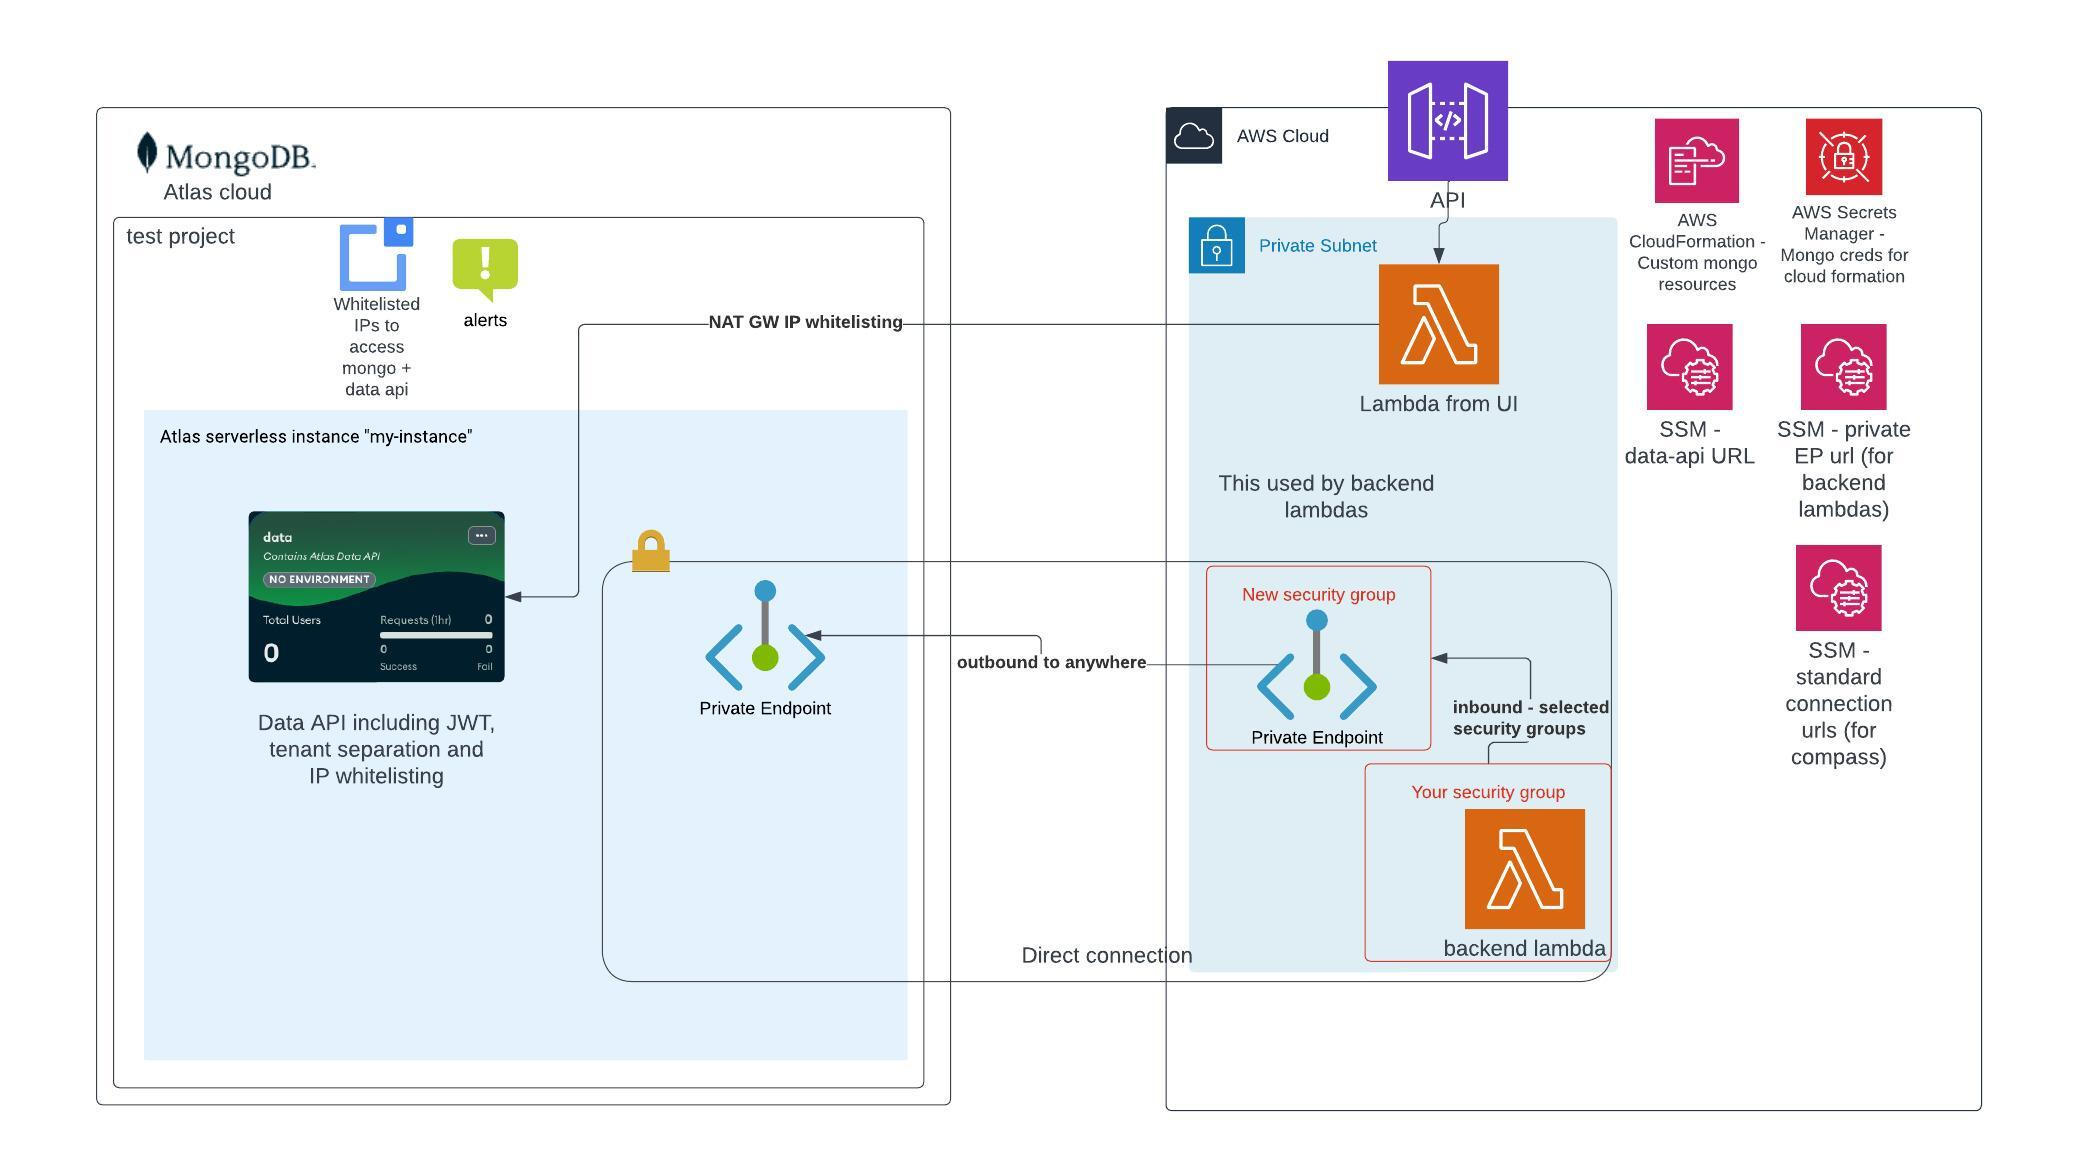
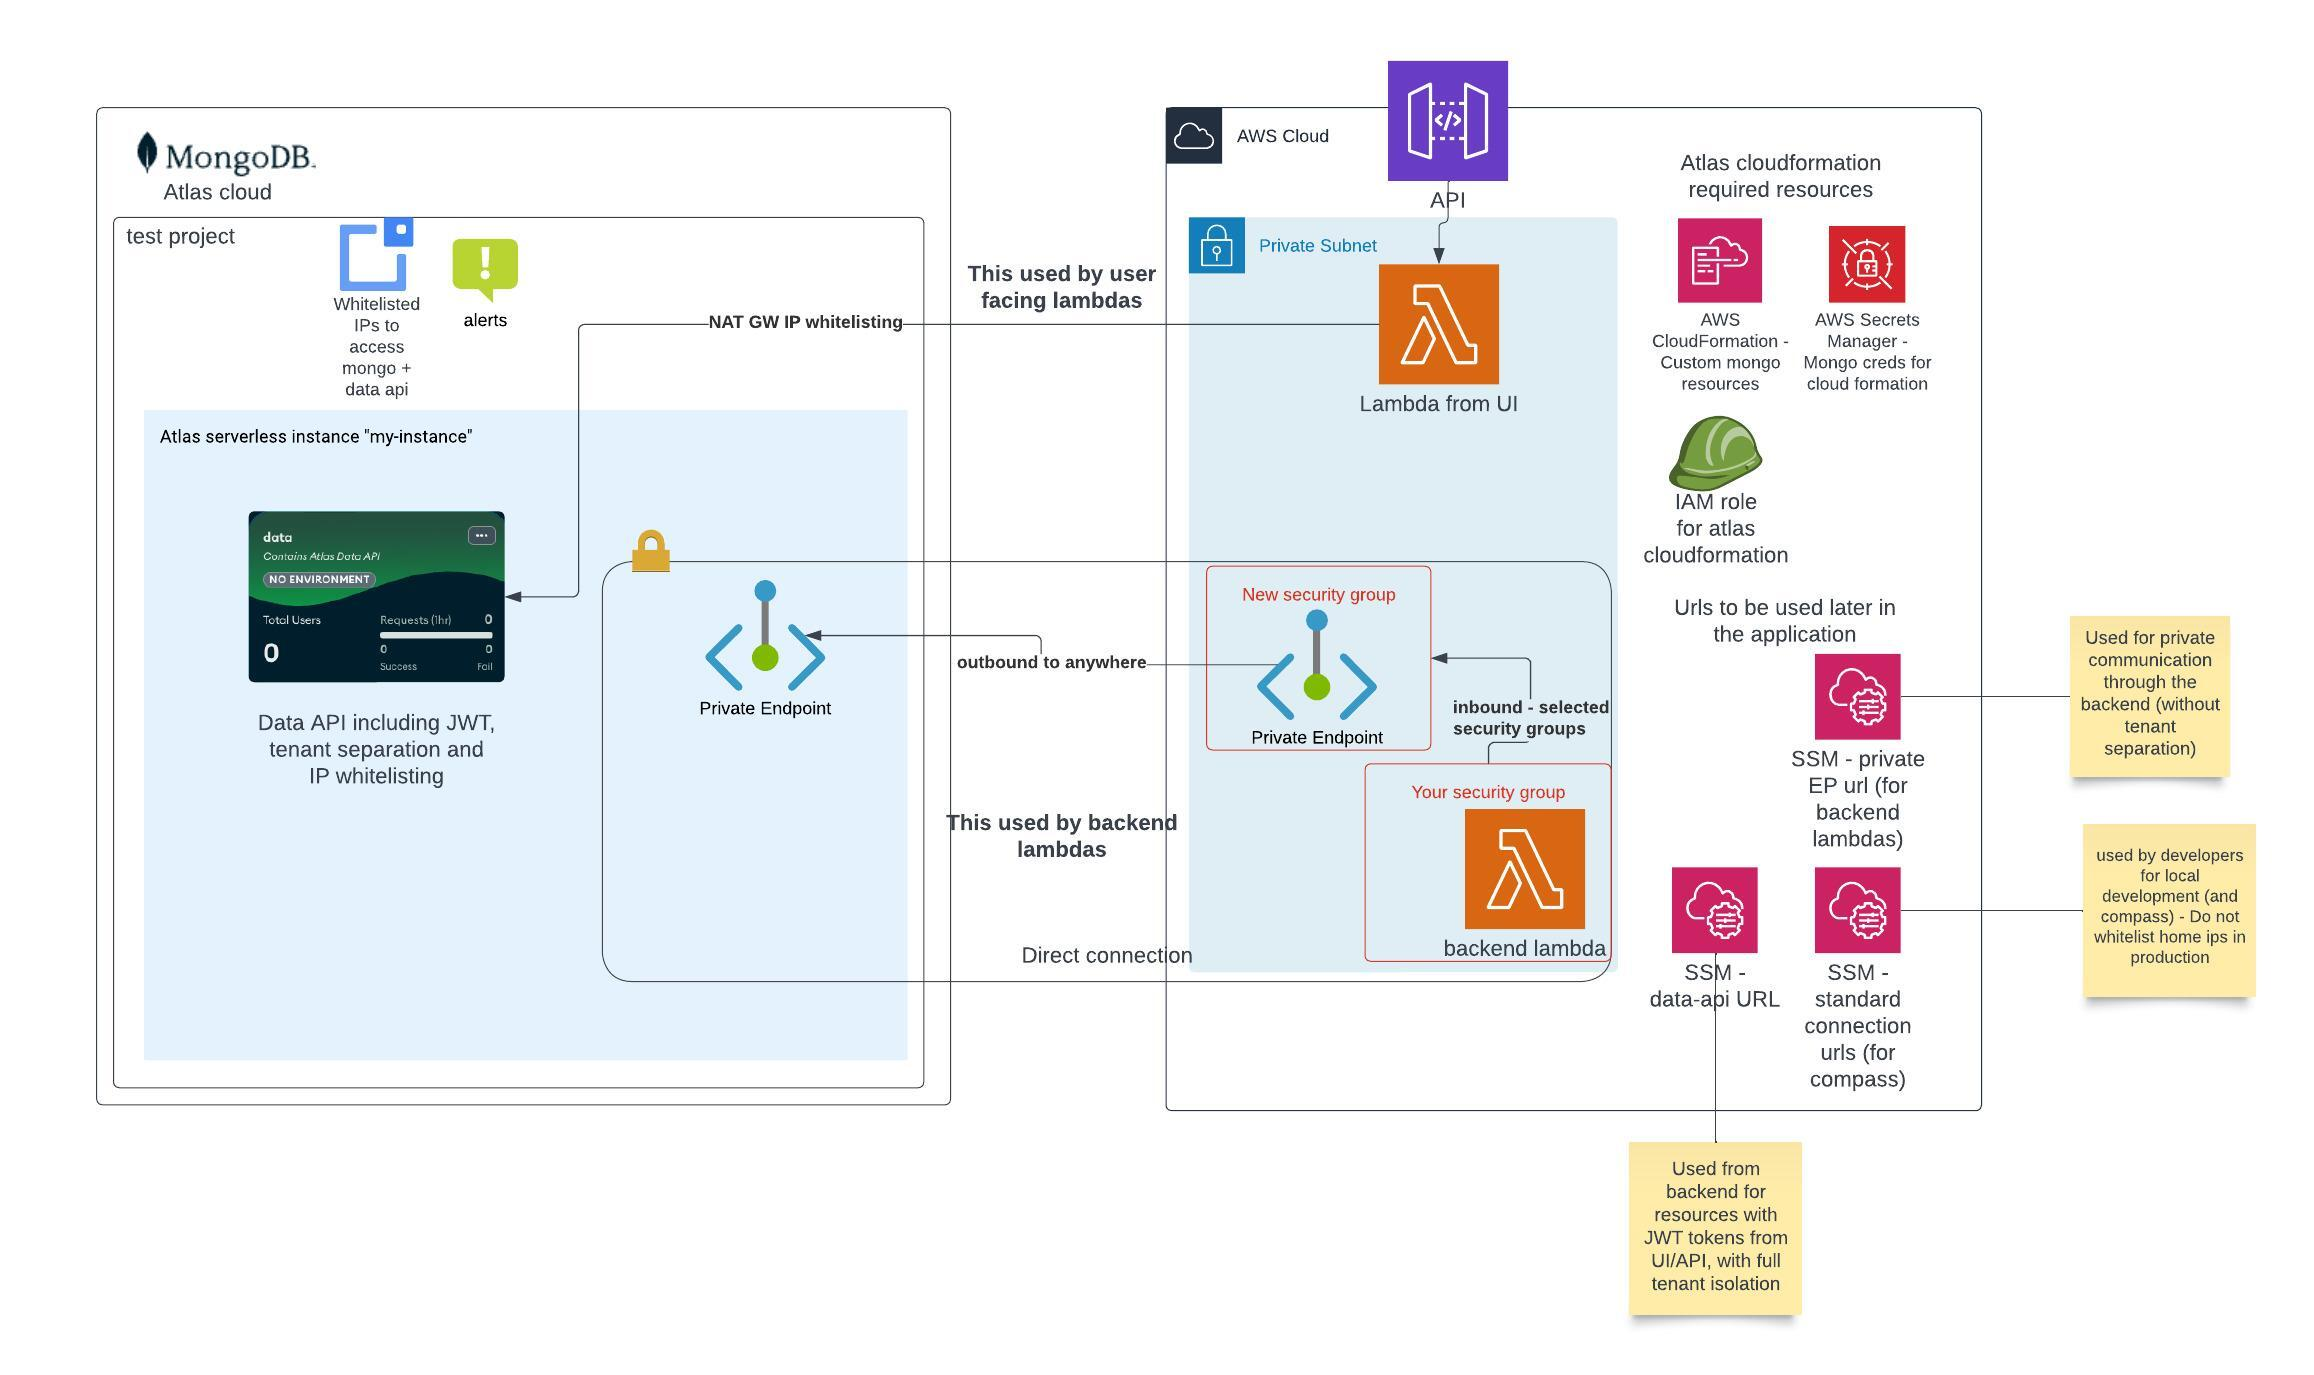
updated architectural sketch

diff --git a/deployments/mongodb_atlas/README.md b/deployments/mongodb_atlas/README.md
@@ -6,17 +6,14 @@ This guide details a streamlined, one-click Terraform deployment for MongoDB Atl
 ## Key Features and components
 
 - **MongoDB Atlas CloudFormation Custom Resources**: Automate the creation of database users and roles using MongoDB Atlas CloudFormation custom resources, streamlining database management and security.
+  - for more information click [here](https://github.com/mongodb/mongodbatlas-cloudformation-resources) 
 - **Developer Access Configuration**: Implement IP whitelisting for developer access, including the automatic configuration of NAT Gateway IPs for the Data API IP whitelist, ensuring secure developer interactions with MongoDB Atlas.
 - **Private Endpoint Connectivity**: Establish private endpoints between AWS and MongoDB Atlas to allow backend Lambda functions to securely access the database without traversing the public internet, enhancing the security of data access.
 - **IP Whitelisting for Data API**: In lieu of private connectivity for app services at deployment, incorporate IP whitelisting as a secure method of accessing MongoDB Atlas, safeguarding data interactions.
 - **Alerts and Monitoring**: Set up comprehensive alerts, including pricing alerts, to be delivered to a designated email address, with the capability for notification adjustments through Slack and other communication channels.
 - **Data API Configuration**: Fully configure the Data API with JWT authentication and filtering mechanisms for tenant separation, facilitating secure and efficient data access and manipulation.
 - **MongoDB Atlas Project Creation**: Establish a dedicated project within MongoDB Atlas to house serverless instances and the Data API, centralizing resources for streamlined management.
-- **Serverless Instances on MongoDB Atlas**: Deploy one or more serverless instances within MongoDB Atlas, optimized for scalability and operational efficiency, catering to dynamic workload requirements.
-- **Integration of MongoDB Atlas Data API with App Services**: Leverage the MongoDB Atlas Data API to enable seamless access from AWS Lambda functions, enhancing UI/API functionalities with secure JWT token-based authentication.
-- **Custom Resources for MongoDB Atlas via CloudFormation**: Utilize custom CloudFormation resources for the efficient creation and management of database users and roles, further automating database administration tasks.
-- **AWS Secret Manager for MongoDB Atlas Credentials**: Securely manage MongoDB Atlas credentials within AWS Secret Manager, ensuring the safe storage and access of sensitive information for use with third-party CloudFormation templates.
-- **AWS IAM Role Configuration**: Configure an IAM role to provide CloudFormation with the necessary permissions for accessing MongoDB credentials in Secret Manager and for the provisioning of resources within Atlas, facilitating secure and automated resource management.
+- **Serverless Instances on MongoDB Atlas**: Deploy one or more serverless instances within MongoDB Atlas, optimized for scalability and operational efficiency, catering to dynamic workload requirements including AWS Secret Manager secret to assist cloudformation in provisioning atlas resources through CloudFormation.
 - **Parameters Management in AWS SSM Parameter Store**: Manage essential AWS parameters within the SSM Parameter Store, simplifying the access and use of Atlas URLs by other services, promoting operational efficiency and inter-service connectivity.
 
 ## Architecture Overview
